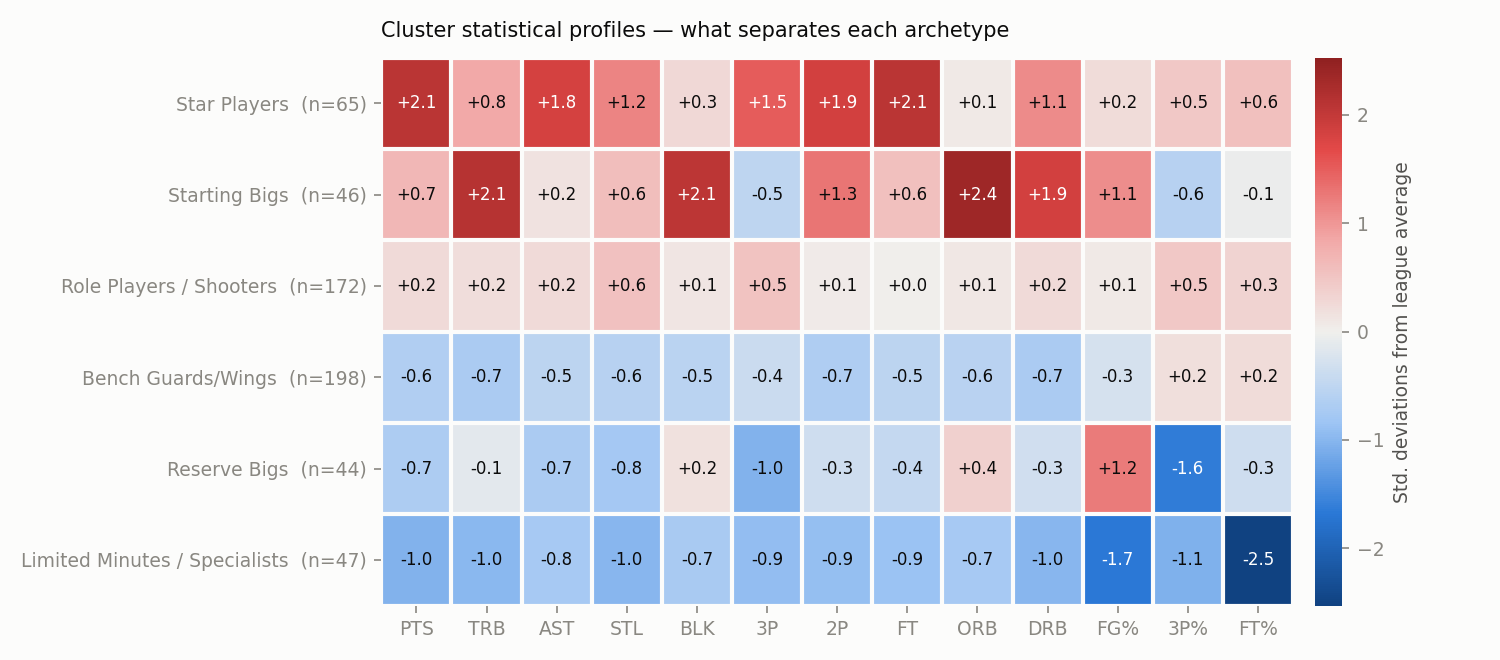
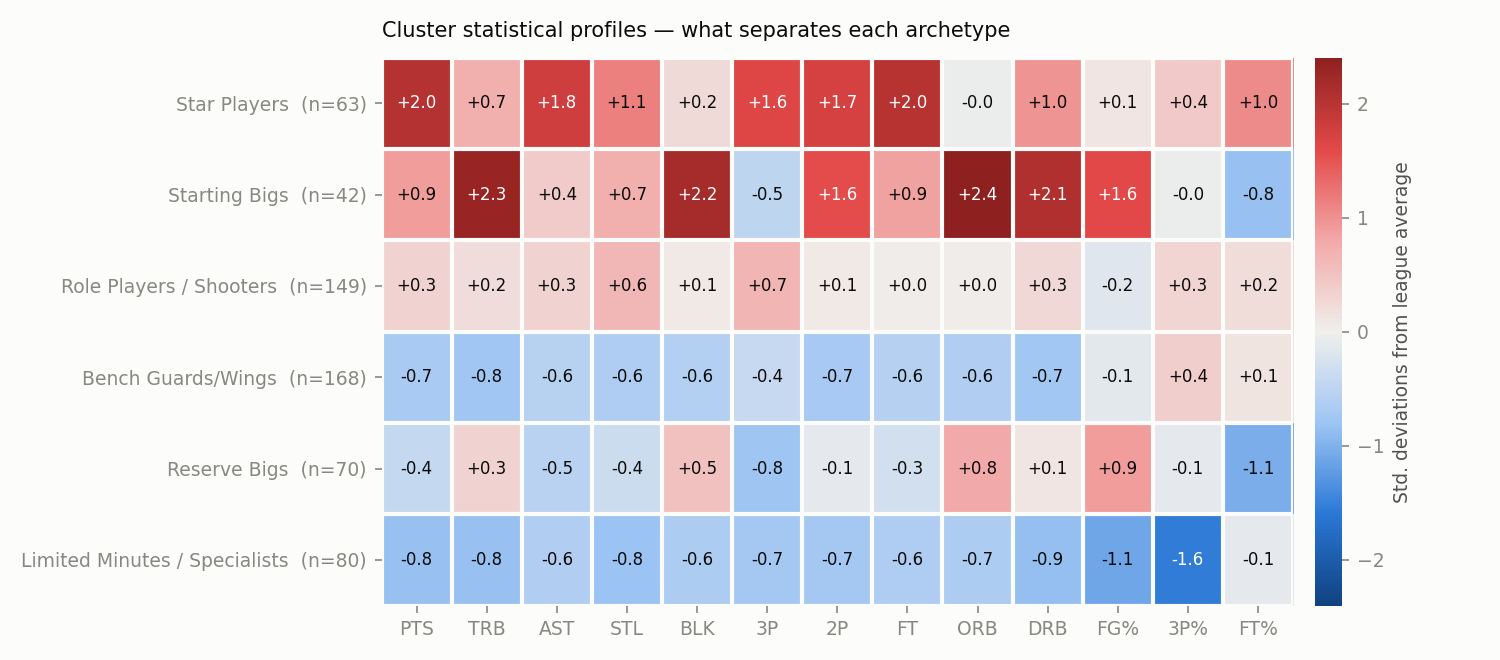
Shrink shooting percentages toward the league rate (#13)
The source stores 0.0, not NaN, for a player who never attempted a shot
type -- 46 players have 3PA == 0 and 3P% == 0.0, and the file contains no
NaNs at all, so the fillna(0) that claimed to handle this was a no-op.
Standardised, those rows read as the worst shooters in the league rather
than "no data"; one make in one attempt read as the best.

Each percentage is now shrunk toward the games-weighted league rate in
proportion to its attempts, with a k=2 attempts/game prior: zero-attempt
players land exactly on the league rate, high-volume shooters move by
under two points. The stale comment is gone.

Also .copy() the traded-player filter so the later column assignments
aren't writing through a view, with a test that runs the pipeline under
mode.chained_assignment="raise".

diff --git a/preprocess.py b/preprocess.py
@@ -10,9 +10,60 @@ import config
 
 logger = logging.getLogger(__name__)
 
+_SHOOTING_COLUMNS = [c for pair in config.SHOOTING_RATES.values() for c in pair]
+
 REQUIRED_COLUMNS = sorted(
-    set(['Player', 'Tm'] + config.CLUSTERING_FEATURES + archetypes.SIGNATURE_FEATURES)
+    set(
+        ['Player', 'Tm', 'G']
+        + config.CLUSTERING_FEATURES
+        + archetypes.SIGNATURE_FEATURES
+        + _SHOOTING_COLUMNS
+    )
 )
+
+
+def shrink_shooting_percentages(df: pd.DataFrame) -> pd.DataFrame:
+    """Replace raw shooting percentages with league-shrunk estimates.
+
+    Basketball-Reference stores ``0.0``, not NaN, for a player who never
+    attempted a given shot type -- 46 players in this dataset have
+    ``3PA == 0`` and ``3P% == 0.0``. Standardised, that is the strongest
+    possible negative signal: k-means reads "took no threes" as "worst
+    three-point shooter alive". The mirror-image problem is just as bad: one
+    made three in one attempt reads as a perfect shooter.
+
+    Both are small-sample artifacts, so each percentage is shrunk toward the
+    league rate in proportion to how many attempts back it::
+
+        shrunk = (attempts * rate + k * league_rate) / (attempts + k)
+
+    A player with zero attempts lands exactly on the league rate ("no data"),
+    and a player with a full season of attempts is left essentially untouched.
+    """
+    df = df.copy()
+    for pct, (makes, attempts) in config.SHOOTING_RATES.items():
+        if makes not in df.columns or attempts not in df.columns:
+            logger.warning(
+                "Cannot shrink %s: missing %s/%s. Leaving the raw column in place.",
+                pct, makes, attempts,
+            )
+            continue
+
+        # Games-weighted league rate: season totals, not a mean of per-game rates.
+        games = df['G'].astype(float)
+        league_rate = float((df[makes] * games).sum() / (df[attempts] * games).sum())
+
+        att = df[attempts].astype(float).fillna(0.0)
+        observed = df[pct].astype(float).fillna(0.0)
+        k = config.SHOOTING_PRIOR_ATTEMPTS
+        df[pct] = (att * observed + k * league_rate) / (att + k)
+
+        zero_attempt = int((att == 0).sum())
+        logger.info(
+            "%s: league rate %.3f, shrunk with k=%.1f attempts (%d players had zero attempts)",
+            pct, league_rate, k, zero_attempt,
+        )
+    return df
 
 
 def preprocess_data(file_path: str) -> pd.DataFrame:
@@ -31,13 +82,16 @@ def preprocess_data(file_path: str) -> pd.DataFrame:
     # Handle duplicates: Keep 'TOT' for players who played for multiple teams
     # Drop rows where Tm != 'TOT' for players who have a 'TOT' row
     players_with_tot = df[df['Tm'] == 'TOT']['Player'].unique()
-    df = df[~((df['Player'].isin(players_with_tot)) & (df['Tm'] != 'TOT'))]
+    # .copy() so the later column assignments write to their own frame rather
+    # than a view of the original (SettingWithCopyWarning).
+    df = df[~((df['Player'].isin(players_with_tot)) & (df['Tm'] != 'TOT'))].copy()
 
-    # Percentage columns (FG%/3P%/FT%) are NaN exactly when the player had
-    # zero attempts of that shot type, so 0 is the correct value there. Fill
-    # only the clustering feature columns rather than the whole dataframe,
+    df = shrink_shooting_percentages(df)
+
+    # Fill only the clustering feature columns rather than the whole dataframe,
     # so unrelated columns (e.g. Pos) aren't silently zeroed if they ever
-    # contain gaps.
+    # contain gaps. Counting stats are genuinely 0 when absent; the percentage
+    # columns have already been handled above.
     df[config.CLUSTERING_FEATURES] = df[config.CLUSTERING_FEATURES].fillna(0)
 
     clustering_features = config.CLUSTERING_FEATURES

diff --git a/test_preprocess.py b/test_preprocess.py
@@ -66,6 +66,56 @@ def test_multi_team_players_collapse_to_tot_row(processed):
         assert rows.iloc[0]["Tm"] == "TOT"
 
 
+def test_zero_attempt_shooters_are_not_treated_as_the_worst_in_the_league(processed):
+    """The source stores 0.0, not NaN, for a player who never took the shot."""
+    df, _ = processed
+    for pct, (_, attempts) in config.SHOOTING_RATES.items():
+        never_attempted = df[df[attempts] == 0]
+        assert len(never_attempted) > 0, f"fixture data should have players with no {attempts}"
+        # They land on the league rate, not on 0 -- and so are never the minimum.
+        assert (never_attempted[pct] > 0).all()
+        assert never_attempted[pct].nunique() == 1
+        assert never_attempted[pct].iloc[0] > df[pct].min()
+
+
+def test_shooting_percentages_are_shrunk_toward_the_league_rate(processed):
+    """A tiny sample must not produce a 0% or 100% shooter."""
+    df, _ = processed
+    raw = pd.read_csv(INPUT_FILE, sep=";", encoding="latin1")
+    for pct in config.SHOOTING_RATES:
+        assert df[pct].min() > raw[pct].min() or raw[pct].min() > 0
+        assert df[pct].max() < 1.0
+
+
+def test_high_volume_shooters_are_barely_moved(processed):
+    """Shrinkage is proportional to sample size, so regulars keep their rate."""
+    df, _ = processed
+    raw = pd.read_csv(INPUT_FILE, sep=";", encoding="latin1")
+    merged = df[["Player", "Tm", "FGA", "FG%"]].merge(
+        raw[["Player", "Tm", "FG%"]], on=["Player", "Tm"], suffixes=("_shrunk", "_raw")
+    )
+    high_volume = merged[merged["FGA"] > 15]
+    assert len(high_volume) > 0
+    shift = (high_volume["FG%_shrunk"] - high_volume["FG%_raw"]).abs()
+    # k=2 prior attempts against >15 attempts/game moves a rate by <2 points.
+    assert shift.max() < 0.02
+
+
+def test_preprocess_does_not_chain_assign_on_a_view(tmp_path):
+    """The boolean filter is copied, so later column writes aren't on a view."""
+    repo_root = os.path.dirname(os.path.abspath(__file__))
+    shutil.copy(os.path.join(repo_root, INPUT_FILE), tmp_path / INPUT_FILE)
+
+    cwd = os.getcwd()
+    os.chdir(tmp_path)
+    try:
+        # "raise" turns what would be a SettingWithCopyWarning into an error.
+        with pd.option_context("mode.chained_assignment", "raise"):
+            preprocess_data(INPUT_FILE)
+    finally:
+        os.chdir(cwd)
+
+
 def test_missing_required_column_raises_clear_error(tmp_path):
     raw = pd.read_csv(INPUT_FILE, sep=";", encoding="latin1")
     bad_file = tmp_path / "missing_column.csv"

diff --git a/config.py b/config.py
@@ -16,7 +16,23 @@ RANDOM_STATE: int = 42
 SILHOUETTE_THRESHOLD: float = 0.1
 
 COUNTING_STATS: list[str] = ["PTS", "TRB", "AST", "STL", "BLK", "3P", "2P", "FT", "ORB", "DRB"]
-SHOOTING_PERCENTAGES: list[str] = ["FG%", "3P%", "FT%"]
+
+# Shooting percentage -> (makes column, attempts column). The source CSV stores
+# 0.0, not NaN, for a player who never attempted that shot type, which reads as
+# "worst shooter in the league" once scaled. preprocess.py uses the makes and
+# attempts columns to shrink each percentage toward the league rate instead.
+SHOOTING_RATES: dict[str, tuple[str, str]] = {
+    "FG%": ("FG", "FGA"),
+    "3P%": ("3P", "3PA"),
+    "FT%": ("FT", "FTA"),
+}
+SHOOTING_PERCENTAGES: list[str] = list(SHOOTING_RATES)
+
+# Strength of the shrinkage prior, in attempts per game. A player with this
+# many attempts per game lands halfway between their own rate and the league
+# rate; a player with none sits exactly on the league rate.
+SHOOTING_PRIOR_ATTEMPTS: float = 2.0
+
 CLUSTERING_FEATURES: list[str] = COUNTING_STATS + SHOOTING_PERCENTAGES
 
 RADAR_FEATURES: list[str] = ["PTS", "TRB", "AST", "STL", "BLK", "3P"]

diff --git a/README.md b/README.md
@@ -38,7 +38,7 @@ flowchart TD
     end
 
     subgraph pipe["Pipeline — run_pipeline.py"]
-        PRE["preprocess.py<br/>schema check → dedupe TOT rows →<br/>fillna → StandardScaler →<br/>KMeans(k=6) → PCA(3) →<br/>name clusters by profile"]
+        PRE["preprocess.py<br/>schema check → dedupe TOT rows →<br/>shrink shooting % → StandardScaler →<br/>KMeans(k=6) → PCA(3) →<br/>name clusters by profile"]
         VAL["validate_model.py<br/>columns + silhouette + archetype-match gate<br/><i>exits non-zero on failure</i>"]
         TEST["test_preprocess.py · test_archetypes.py<br/><i>pytest</i>"]
     end
@@ -78,7 +78,7 @@ flowchart TD
 
 `archetypes.py` owns the *names*. See [Naming the archetypes](#naming-the-archetypes) below for why they aren't in `config.py`.
 
-`preprocess.py` reads the committed `nba_stats.csv`, checks the required columns are present, collapses traded players onto their `TOT` (season-total) row, fills the shooting-percentage NaNs that mean "zero attempts", then standardizes the 13 clustering features and fits `KMeans(k=6)`. It matches each resulting cluster to a named archetype, fits a 3-component PCA purely for visualization, and writes stats + `Cluster` + `Archetype` + `PC1/PC2/PC3` out to `processed_nba_stats.csv`.
+`preprocess.py` reads the committed `nba_stats.csv`, checks the required columns are present, collapses traded players onto their `TOT` (season-total) row, shrinks the shooting percentages toward the league rate (see [Shooting percentages](#shooting-percentages)), then standardizes the 13 clustering features and fits `KMeans(k=6)`. It matches each resulting cluster to a named archetype, fits a 3-component PCA purely for visualization, and writes stats + `Cluster` + `Archetype` + `PC1/PC2/PC3` out to `processed_nba_stats.csv`.
 
 `validate_model.py` is a gate, not a report: it re-scales the processed features, computes the silhouette score, re-derives the archetype match, and exits non-zero if the score falls below `SILHOUETTE_THRESHOLD` or a cluster no longer resembles the archetype it is labelled with. `run_pipeline.py` chains preprocess → validate → pytest and stops at the first failure.
 
@@ -91,7 +91,7 @@ flowchart TD
 | `config.py` | Shared configuration: input/output paths, `N_CLUSTERS`, `RANDOM_STATE`, silhouette threshold, clustering/radar feature lists. |
 | `archetypes.py` | Named archetypes, their descriptions, colors and reference statistical profiles, plus the profile-matching that assigns names to clusters. |
 | `nba_stats.csv` | Committed raw input — per-game player stats (semicolon-delimited, `latin1`). |
-| `preprocess.py` | Load → validate schema → dedupe traded players → scale → K-Means → PCA → name archetypes → write `processed_nba_stats.csv`. |
+| `preprocess.py` | Load → validate schema → dedupe traded players → shrink shooting percentages → scale → K-Means → PCA → name archetypes → write `processed_nba_stats.csv`. |
 | `processed_nba_stats.csv` | Generated artifact consumed by both the validator and the app. Not the source of truth; regenerate it. |
 | `validate_model.py` | Quality gate on the generated artifact: required columns present, silhouette score above threshold, archetype names still match their cluster profiles. Exit code drives CI/pipeline. |
 | `run_pipeline.py` | Orchestrator — runs preprocess, validate, and tests in order, aborting on the first non-zero exit. |
@@ -122,7 +122,19 @@ These figures are generated by `make_figures.py` from the repo's own `processed_
 
 ![Two line charts: inertia falling smoothly from k=2 to k=12, and mean silhouette score peaking at k=2 then flattening around 0.22-0.24 between k=4 and k=7 before dropping, with k=6 marked on both.](docs/images/model_selection.png)
 
-*The elbow is soft — per-game box-score stats are a continuum, not naturally separated groups. Silhouette is highest at k=2, but that just splits starters from bench. Within the interpretable range, k=6 sits at a local silhouette maximum (~0.24) and yields six archetypes a basketball fan would recognize. Every k shown clears the 0.1 threshold `validate_model.py` enforces.*
+*The elbow is soft — per-game box-score stats are a continuum, not naturally separated groups. Silhouette is highest at k=2 (0.36), but that just splits starters from bench; it falls to 0.18 at the shipped k=6 and flattens around 0.15–0.16 beyond it. k=6 is chosen for interpretability, not for peak silhouette: it yields six archetypes a basketball fan would recognize.*
+
+### Shooting percentages
+
+Basketball-Reference stores `0.0`, not NaN, for a player who never attempted a given shot — 46 players in this dataset have `3PA == 0` and `3P% == 0.0`, and the file contains no NaNs at all. Standardized, that is the strongest possible *negative* signal: k-means reads "took no threes" as "worst three-point shooter in the league". The mirror image is just as bad — one make in one attempt reads as a perfect shooter.
+
+Both are small-sample artifacts, so `preprocess.py` shrinks every percentage toward the games-weighted league rate in proportion to the attempts behind it:
+
+```
+shrunk = (attempts * rate + k * league_rate) / (attempts + k)
+```
+
+with `k = SHOOTING_PRIOR_ATTEMPTS = 2.0` attempts per game. A player with no attempts lands exactly on the league rate (the honest "no data" value); a high-volume shooter moves by less than two percentage points.
 
 ### Naming the archetypes
 
@@ -142,7 +154,7 @@ python archetypes.py
 
 ![Heatmap of the six clusters against the thirteen clustering features, colored blue (below league average) to red (above), with the standard-deviation value printed in each cell.](docs/images/cluster_profiles.png)
 
-*Cluster means in standard deviations from the league average. The structure is legible: Star Players are elevated across every counting stat; Starting Bigs spike on rebounding and blocks while sitting below average on 3P; Reserve Bigs share the interior shape at lower volume; and Limited Minutes / Specialists are uniformly negative, with FT% and FG% dragged down by tiny attempt counts.*
+*Cluster means in standard deviations from the league average. The structure is legible: Star Players are elevated across every counting stat; Starting Bigs spike on rebounding and blocks while sitting below average on 3P; Reserve Bigs share the interior shape at lower volume; and Limited Minutes / Specialists are uniformly negative on volume. Because the percentages are shrunk toward the league rate, the low-minute clusters are no longer dragged to the floor on FG%/FT% by a handful of attempts.*
 
 ## Setup
 1. Clone the repository:
